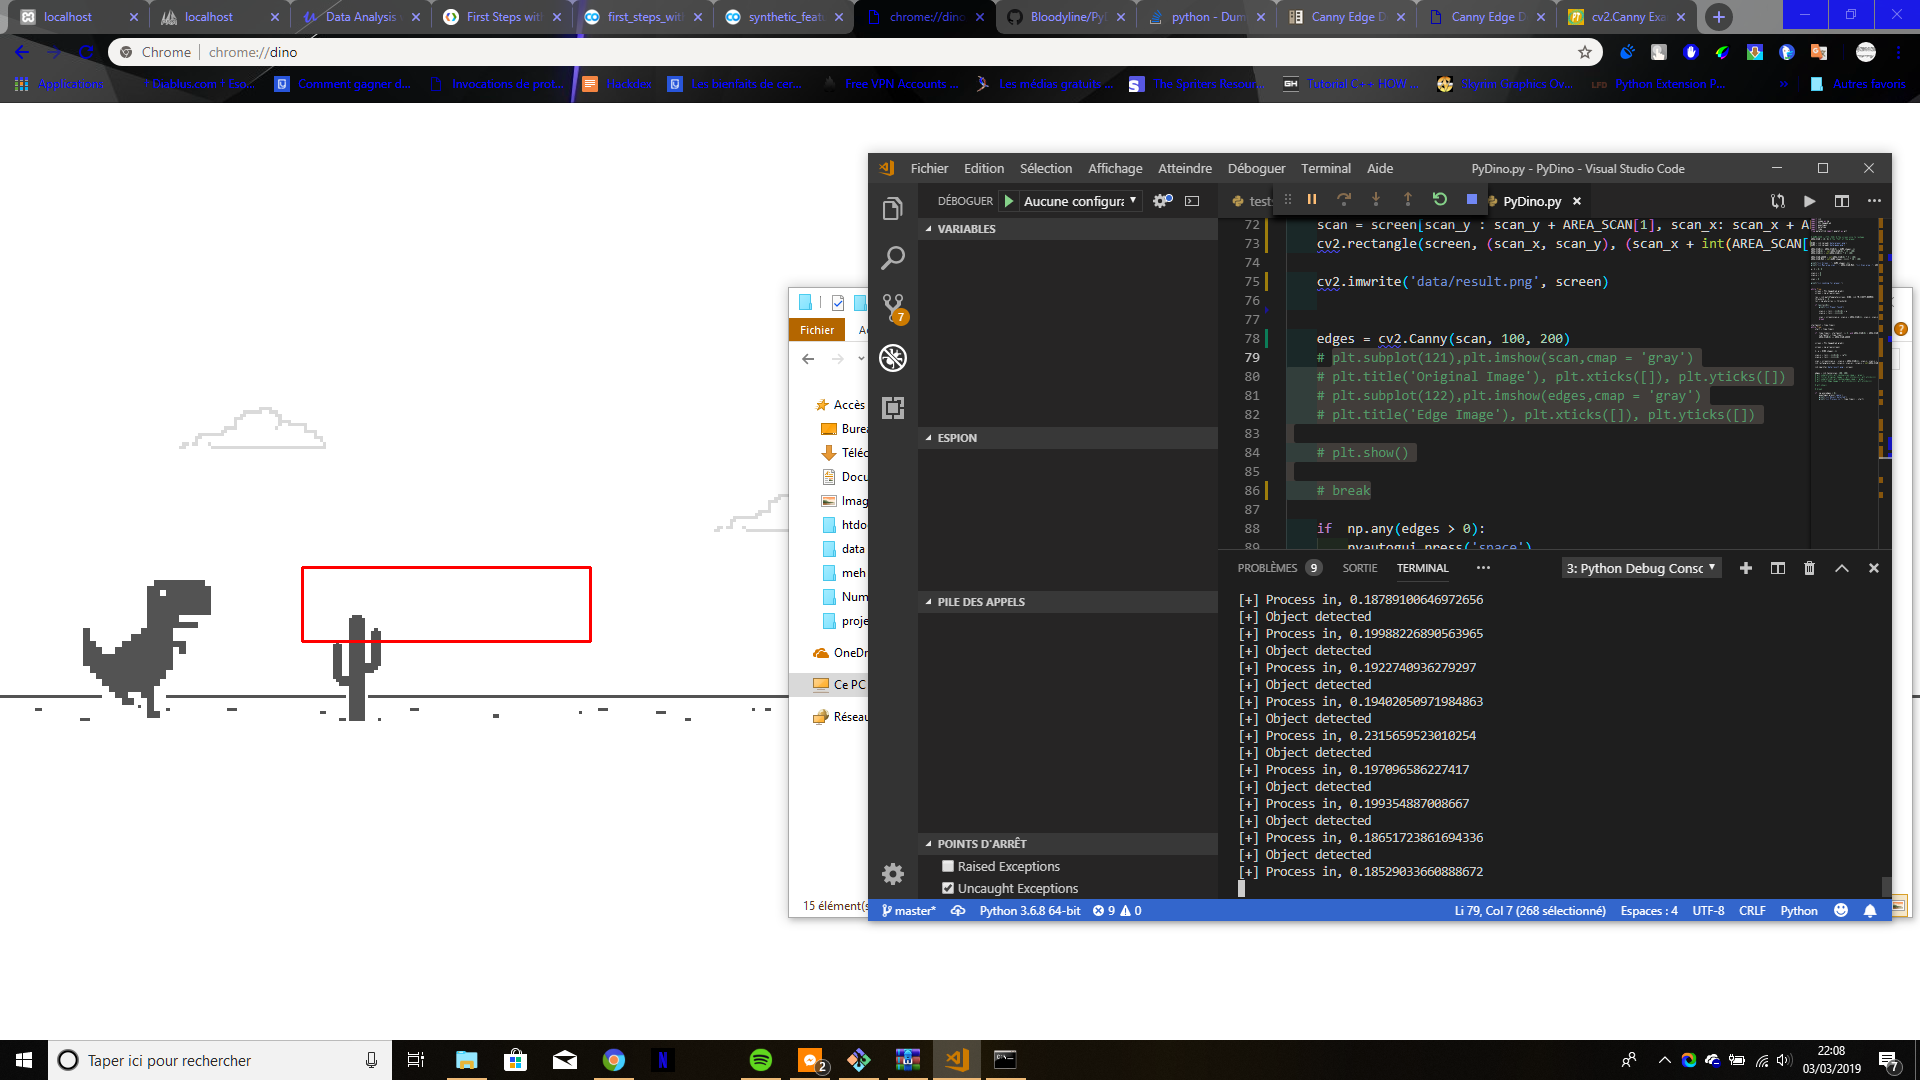
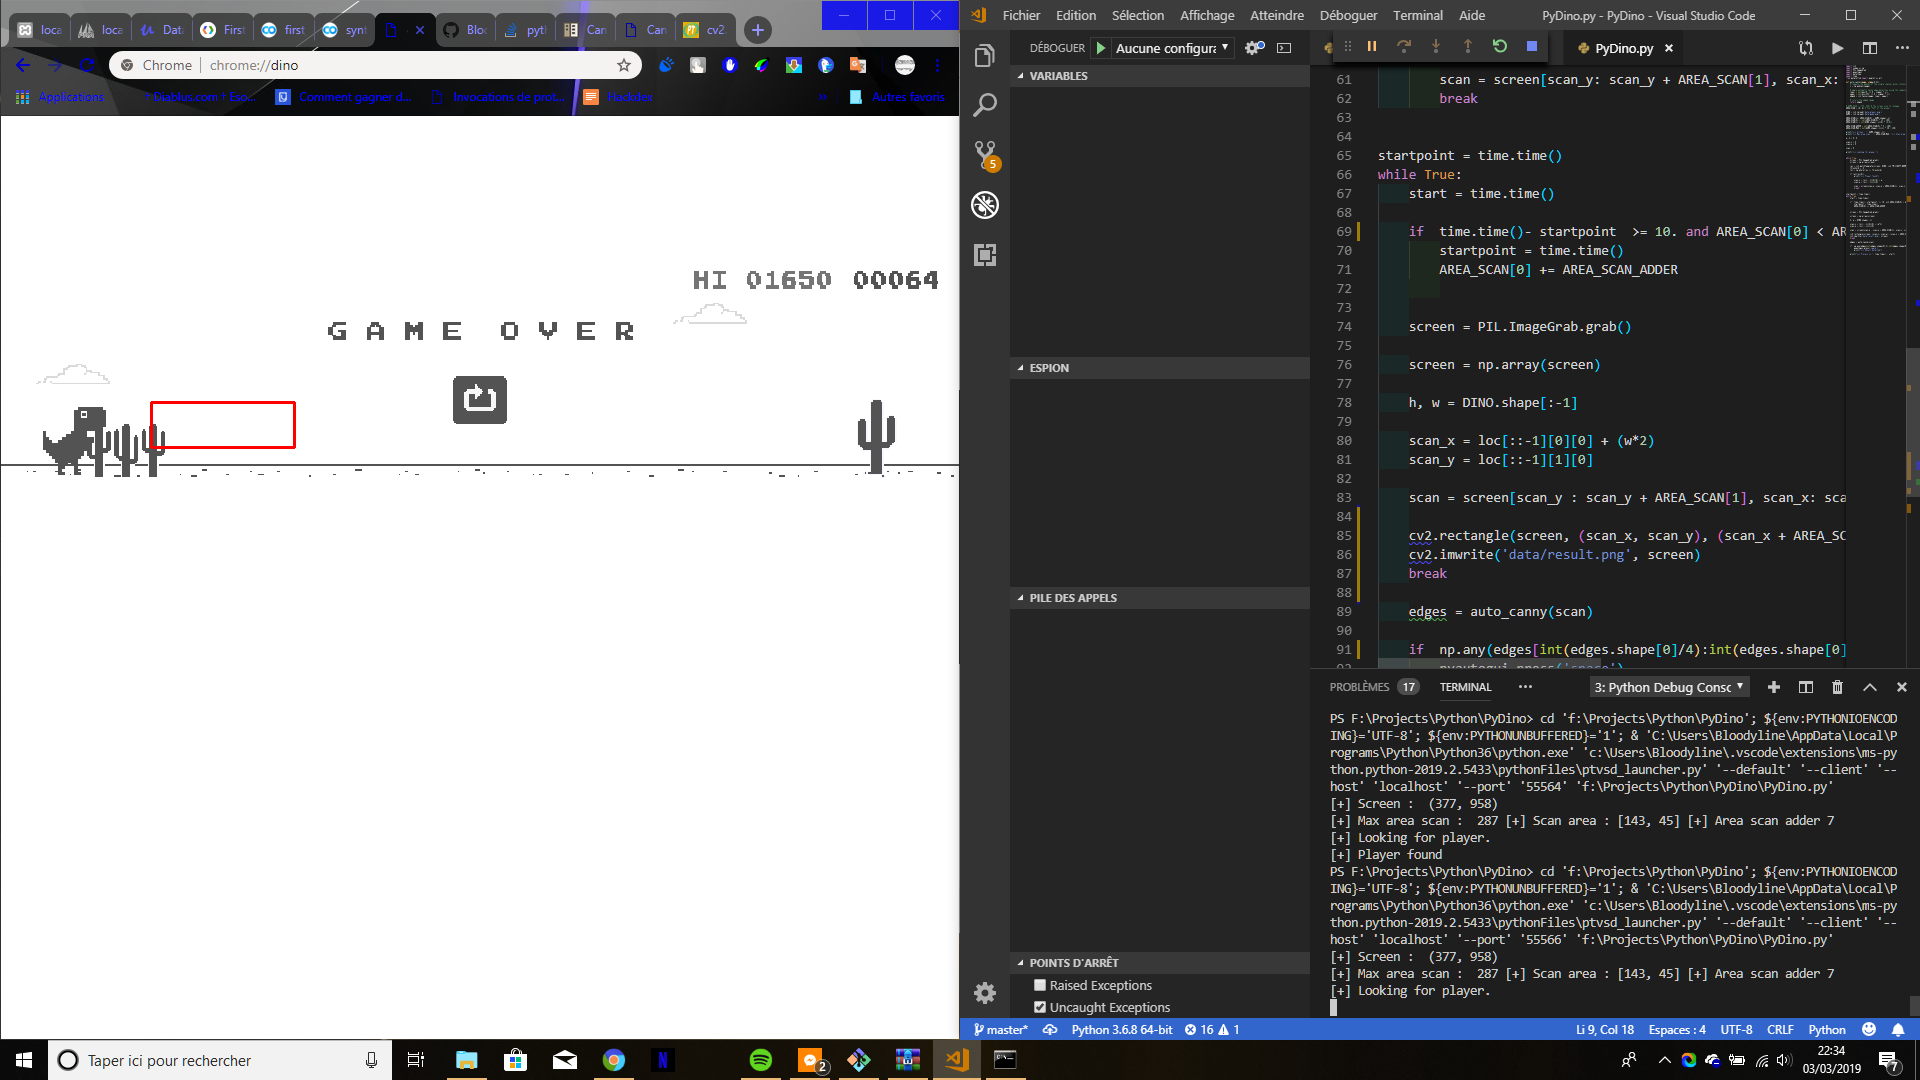
Damn ... it works ( a little bit)

diff --git a/PyDino.py b/PyDino.py
@@ -26,7 +26,7 @@ GAME = cv2.imread('data/game.png')
 
 AREA_SCAN[1], AREA_SCAN[0] = GAME.shape[:-1]
 AREA_SCAN[0] =  int(AREA_SCAN[0] * 15 / 100)
-AREA_SCAN[1] = int(AREA_SCAN[1] * 8 / 100)
+AREA_SCAN[1] = int(DINO.shape[:-1][0] * (3/2))
 
 AREA_SCAN_ADDER = int(AREA_SCAN[0] * 5 / 100)
 AREA_SCAN_MAX = int(GAME.shape[:-1][1] * 30 / 100)
@@ -66,7 +66,7 @@ startpoint = time.time()
 while True:
     start = time.time()
 
-    if  time.time()- startpoint  >= 5. and AREA_SCAN[0] < AREA_SCAN_MAX:
+    if  time.time()- startpoint  >= 10. and AREA_SCAN[0] < AREA_SCAN_MAX:
         startpoint = time.time()
         AREA_SCAN[0] += AREA_SCAN_ADDER
         
@@ -81,26 +81,16 @@ while True:
     scan_y = loc[::-1][1][0]
 
     scan = screen[scan_y : scan_y + AREA_SCAN[1], scan_x: scan_x + AREA_SCAN[0]]
-    cv2.rectangle(screen, (scan_x, scan_y), (scan_x + int(AREA_SCAN[0]), scan_y + int(AREA_SCAN[1])), (0, 0, 255), 2)
-
-    # cv2.imwrite('data/result.png', screen)
     
+    # cv2.rectangle(screen, (scan_x, scan_y), (scan_x + AREA_SCAN[0], scan_y + AREA_SCAN[1]), (0, 0, 255), 2)
+    # cv2.imwrite('data/result.png', screen)
+    # break
 
     edges = auto_canny(scan)
 
-    print(edges)
-    
-    plt.subplot(121),plt.imshow(scan,cmap = 'gray')
-    plt.title('Original Image'), plt.xticks([]), plt.yticks([])
-    plt.subplot(122),plt.imshow(edges,cmap = 'gray')
-    plt.title('Edge Image'), plt.xticks([]), plt.yticks([])
-
-    plt.show()
-
-    break
-
-    if  np.any(edges > 0):
+    if  np.any(edges[int(edges.shape[0]/4):int(edges.shape[0]/(3/2)) , int(edges.shape[1]/4):int(edges.shape[1]/(3/2)) ] > 0):
         pyautogui.press('space')
         print("[+] Object detected")
-        print("[+] Process in,", time.time() - start)
+
+    print("[+] Process in,", time.time() - start)
 
